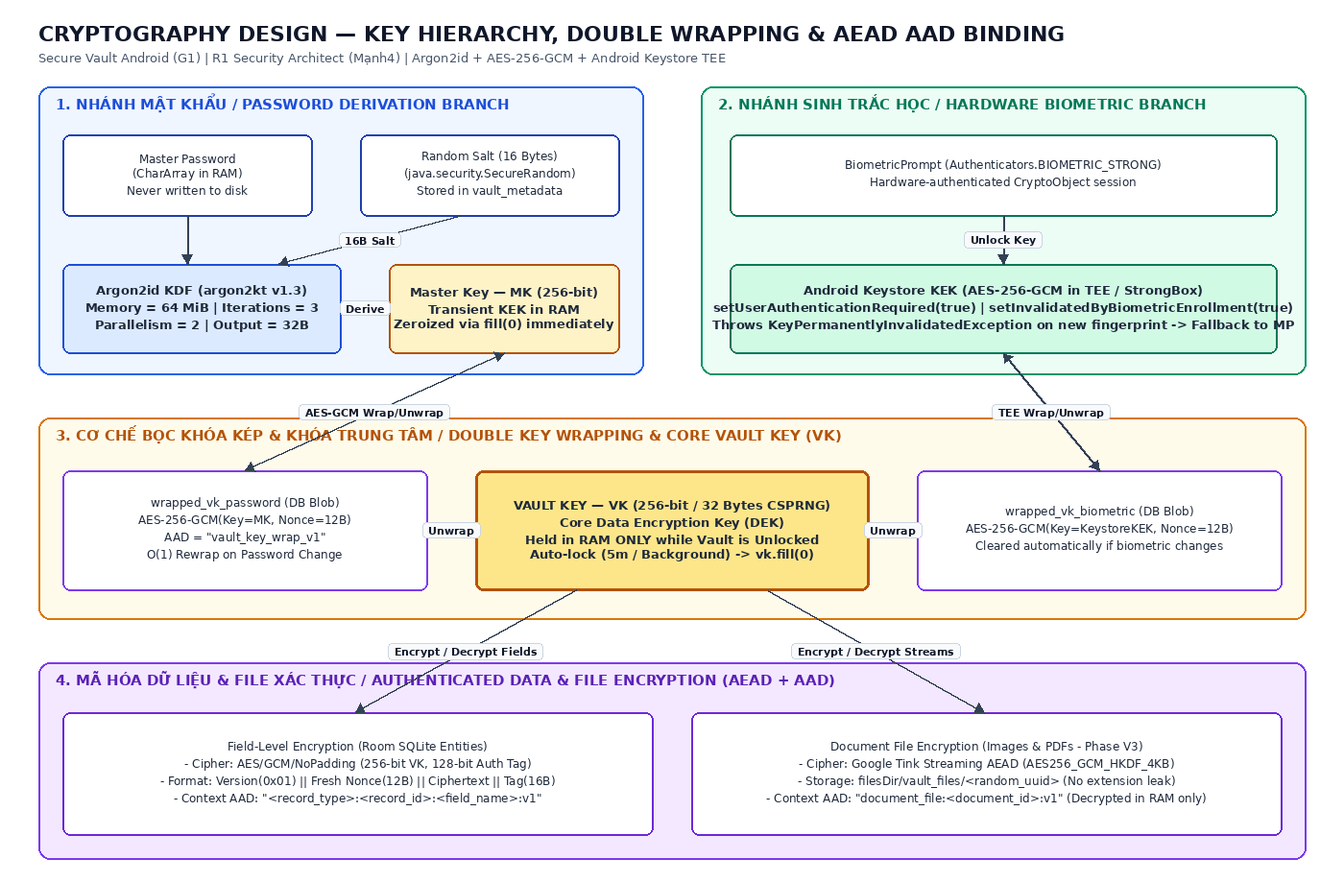
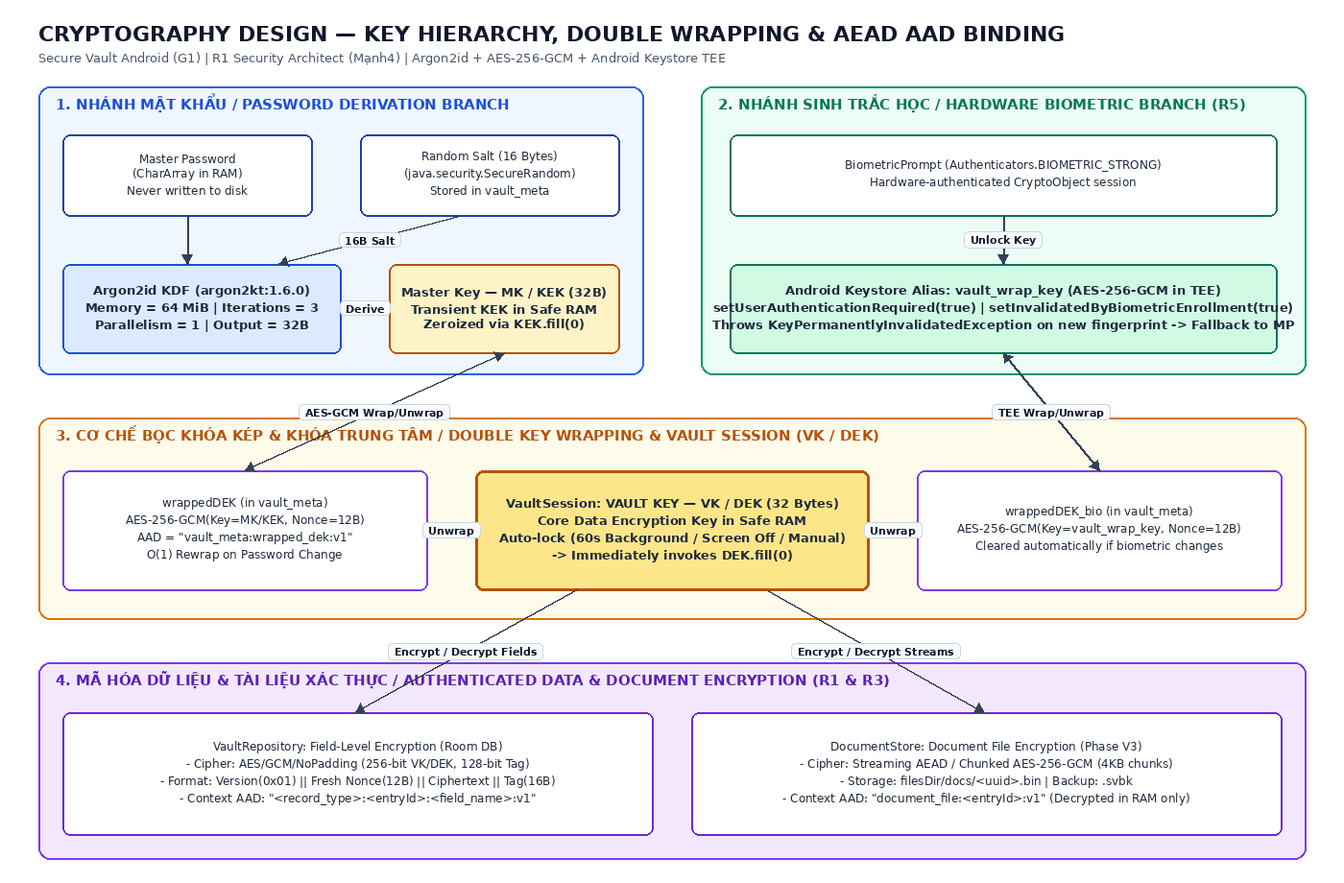
docs(crypto): synchronize terminology, argon2kt params, and R1-R5 tasks with Minh

diff --git a/docs/crypto-design.md b/docs/crypto-design.md
@@ -1,29 +1,28 @@
 # Thiết kế Mật mã / Cryptography Design — Secure Vault Android
 
 - **Dự án / Project:** Secure Vault Android
-- **Phụ trách chính / Lead Authors:** R1 – Mạnh4 (Security Architect) & R5 – Minh (Crypto & Keystore Engineer)
-- **Phiên bản / Version:** v0.1 (Bản nháp G1 — Chuẩn bị cho V2 Security Core / Phase G1 Draft for V2)
+- **Phụ trách chính / Lead Author:** R1 – Mạnh4 (Security Architect) *(Đồng bộ hóa với R5 – Minh: Crypto & Keystore Engineer)*
+- **Phiên bản / Version:** v0.1 (Bản chốt G1 — Chuẩn bị cho V2 Security Core / Phase G1 Finalized Draft for V2)
 - **Ngày cập nhật / Last Updated:** 01/11/2026
 
 ---
 
-## 1. Mục tiêu thiết kế / Design Goals
+## 1. Mục tiêu thiết kế & Phân vùng bảo mật / Design Goals & 3 Security Zones
 
-1. **Bảo mật dữ liệu nghỉ / Data-at-Rest Confidentiality & Integrity:**
-   - **VI:** Mọi thông tin nhạy cảm trong SQLite (Room) và file đính kèm (ảnh/PDF giấy tờ) đều được mã hóa xác thực (**AEAD**). Kẻ tấn công kéo toàn bộ thư mục `/data/data/...` qua `adb` không thể đọc hoặc sửa đổi trái phép dữ liệu.
-   - **EN:** All sensitive records in SQLite (Room) and attached files (ID images/PDFs) are protected using Authenticated Encryption with Associated Data (**AEAD**). An attacker extracting `/data/data/...` via `adb` cannot read or undetectedly modify any sensitive content.
+1. **Ba Phân vùng Bảo mật / Three Security Zones (`README.md` & R5 Alignment):**
+   - **Untrusted Zone (Vùng không đáng tin cậy):** Gồm dữ liệu đầu vào (`Master Password` dạng `CharArray`, tài liệu từ SAF `content://`, yêu cầu `FillRequest` của `AutofillService`) và dữ liệu lưu trữ trên đĩa (`vault_meta`, Room DB, `filesDir/docs/<uuid>.bin`, file backup `.svbk`).
+   - **In-Memory Safe Zone (Vùng an toàn trong bộ nhớ - RAM):** Nơi diễn ra dẫn xuất khóa `Argon2id` (`MK / KEK`), quản lý khóa phiên `VK / DEK` trong `VaultSession`, và thực thi mã hóa/giải mã tại `VaultRepository` & `DocumentStore`.
+   - **Hardware Security Zone (Vùng bảo mật phần cứng - TEE):** Android Keystore chứa khóa không thể trích xuất `vault_wrap_key` kết hợp xác thực phần cứng qua `BiometricPrompt` (`CryptoObject`).
 
-2. **Độc lập giữa khóa dữ liệu và mật khẩu người dùng / Decoupling Data Encryption Keys from User Credentials:**
-   - **VI:** Dữ liệu được mã hóa bằng **Vault Key (VK)** ngẫu nhiên thay vì mã hóa trực tiếp bằng khóa dẫn xuất từ mật khẩu. Nhờ đó:
-     - Có thể mở khóa cùng một `VK` bằng nhiều phương thức (**Master Password** hoặc **Sinh trắc học / Android Keystore**).
-     - Khi **đổi Master Password**, chỉ cần bọc lại (rewrap) `VK` trong thời gian $O(1)$ mà không phải giải mã và mã hóa lại toàn bộ cơ sở dữ liệu.
-   - **EN:** Application data is encrypted with a randomly generated **Vault Key (VK)** rather than directly with a password-derived key. Consequently:
-     - The same `VK` can be unlocked via multiple factors (**Master Password** or **Biometrics / Android Keystore**).
-     - **Master Password rotation** only requires re-wrapping `VK` in $O(1)$ time without re-encrypting the underlying database or files.
+2. **Phân tách khóa & Bọc khóa kép / Key Separation & Double Key Wrapping:**
+   - **Master Key (`MK` / `KEK` - 32 bytes):** Chỉ dùng để bọc/mở bọc `VK / DEK`, xóa trắng ngay lập tức sau khi dùng (`KEK.fill(0)`).
+   - **Vault Key (`VK` / `DEK` - 32 bytes):** Khóa đối xứng trung tâm mã hóa bản ghi Room DB và tài liệu. Được lưu trong bảng `vault_meta` dưới 2 bản bọc độc lập:
+     - `wrappedDEK`: Bọc bởi `MK / KEK` (`AES-256-GCM`).
+     - `wrappedDEK_bio`: Bọc bởi khóa phần cứng `vault_wrap_key` trong Android Keystore.
+   - Khi **đổi Master Password**, chỉ cần bọc lại (`Rewrap`) `VK / DEK` sang `wrappedDEK` mới trong thời gian $O(1)$ mà không cần giải mã lại toàn bộ DB.
 
-3. **Chống tấn công cắt dán & tráo đổi bản ghi / Anti-Tampering & Context Binding:**
-   - **VI:** Sử dụng **Associated Data (AAD)** gắn chặt bản mã với định danh bản ghi và tên trường dữ liệu.
-   - **EN:** Enforces cryptographic context binding via **Associated Data (AAD)** tying every ciphertext blob to its exact record type, record UUID, and field name.
+3. **Chống tấn công cắt dán & tráo đổi bản ghi / Anti-Tampering & Context Binding (AAD):**
+   - Gắn ngữ cảnh **Associated Data (AAD)** chứa `entryId` và tên trường vào mọi thao tác `AES-256-GCM`.
 
 ---
 
@@ -33,39 +32,39 @@
 
 ```mermaid
 flowchart TD
-    subgraph UserInput["1. Nhánh Mật khẩu / Password Unlock Branch"]
-        MP["Master Password (CharArray / ByteArray)"]
-        Salt["Random Salt (16 bytes - SecureRandom)"]
-        Argon["Argon2id KDF (argon2kt)"]
-        MK["Master Key - MK (256-bit, RAM only)"]
+    subgraph UserInput["1. Nhánh Mật khẩu / Password Unlock Branch (R5 & R1)"]
+        MP["Master Password (CharArray)"]
+        Salt["Random Salt (16 bytes - SecureRandom in vault_meta)"]
+        Argon["Argon2id KDF (argon2kt:1.6.0: m=64MiB, t=3, p=1)"]
+        MK["Master Key - MK / KEK (32B, RAM only -> KEK.fill(0))"]
 
         MP --> Argon
         Salt --> Argon
         Argon -->|"Dẫn xuất khóa / Derive Key"| MK
     end
 
-    subgraph HardwareBio["2. Nhánh Sinh trắc học / Biometric Unlock Branch"]
-        BioPrompt["BiometricPrompt (BIOMETRIC_STRONG)"]
-        KeystoreKEK["Biometric Key - KEK (AES-256-GCM in Android Keystore / TEE)"]
+    subgraph HardwareBio["2. Nhánh Sinh trắc học / Biometric Unlock Branch (R5)"]
+        BioPrompt["BiometricPrompt (BIOMETRIC_STRONG + CryptoObject)"]
+        KeystoreKEK["Android Keystore Alias: vault_wrap_key (AES-256-GCM in TEE)"]
         BioPrompt -->|"Xác thực phần cứng / Hardware Auth"| KeystoreKEK
     end
 
-    subgraph KeyWrapping["3. Bọc & Bảo vệ Vault Key / Wrapped VK Storage (vault_metadata table)"]
-        WrappedPW["wrapped_vk_password + nonce_pw (12B) + tag (16B)"]
-        WrappedBio["wrapped_vk_biometric + nonce_bio (12B) + tag (16B)"]
+    subgraph KeyWrapping["3. Bọc & Bảo vệ Vault Key / Double Key Wrapping (vault_meta table)"]
+        WrappedPW["wrappedDEK + nonce_pw (12B) + tag (16B)"]
+        WrappedBio["wrappedDEK_bio + nonce_bio (12B) + tag (16B)"]
         MK <-->|"AES-256-GCM Wrap / Unwrap"| WrappedPW
         KeystoreKEK <-->|"Keystore AES-GCM Wrap / Unwrap"| WrappedBio
     end
 
-    subgraph CoreKey["4. Khóa trung tâm / Core Session Key (RAM Only While Unlocked)"]
-        VK["Vault Key - VK (256-bit CSPRNG)"]
+    subgraph CoreKey["4. Khóa trung tâm / VaultSession (In-Memory Safe Zone)"]
+        VK["Vault Key - VK / DEK (32B CSPRNG -> DEK.fill(0) on Lock)"]
         WrappedPW -->|"Unwrap thành công / Unwrap Success"| VK
         WrappedBio -->|"Unwrap thành công / Unwrap Success"| VK
     end
 
-    subgraph DataEncryption["5. Mã hóa Dữ liệu & Tệp / Record & File Encryption"]
-        CredFields["Trường nhạy cảm trong Room / Sensitive DB Fields<br/>AES-256-GCM + Nonce 12B + AAD (type:id:field:v1)"]
-        DocFiles["File Ảnh & PDF Giấy tờ / Document Files (V3)<br/>Tink Streaming AEAD / Per-file FEK + AAD"]
+    subgraph DataEncryption["5. Mã hóa Dữ liệu & Tài liệu / Record & Document Encryption (R1 & R3)"]
+        CredFields["VaultRepository (Room DB Fields)<br/>AES-256-GCM + Nonce 12B + AAD (type:entryId:field:v1)"]
+        DocFiles["DocumentStore (filesDir/docs/<uuid>.bin)<br/>Streaming AEAD (4KB chunks) + AAD"]
         VK -->|"Mã hóa & Giải mã / Encrypt & Decrypt"| CredFields
         VK -->|"Mã hóa & Giải mã / Encrypt & Decrypt"| DocFiles
     end
@@ -73,137 +72,122 @@ flowchart TD
 
 ---
 
-## 3. Chi tiết các thành phần mật mã / Cryptographic Components Specification
+## 3. Phân công & Đồng bộ hóa Nhiệm vụ Mật mã (R1 $\leftrightarrow$ R5) / Task Synchronization (R1 & R5)
 
-### 3.1. Dẫn xuất khóa bằng Argon2id / Key Derivation via Argon2id (`Master Password` $\rightarrow$ `Master Key`)
-- **Thư viện sử dụng / Library:**
-  - **VI:** `argon2kt` (được R5 khảo sát phiên bản stable và API thực tế trong giai đoạn G1).
-  - **EN:** `argon2kt` (stable version and exact artifact coordinates verified by R5 during Phase G1).
-- **Biến thể / Variant:**
-  - **VI:** `Argon2id` (phiên bản `0x13` / v1.3) — kết hợp khả năng kháng tấn công kênh kề (side-channel) của Argon2i và kháng phần cứng chuyên dụng (GPU/ASIC) của Argon2d.
-  - **EN:** `Argon2id` (version `0x13` / v1.3) — combining the side-channel resistance of Argon2i with the GPU/ASIC cracking resistance of Argon2d.
-- **Tham số đề xuất ban đầu / Initial Proposed Parameters:**
-  - **VI:** *Sẽ đo thực tế trên thiết bị thật ở mục 5.2 giai đoạn V2 để thời gian mở khóa đạt khoảng `300ms – 500ms` mà không gây giật UI:*
-  - **EN:** *To be benchmarked on physical target devices in Phase V2 (Task 5.2) targeting a `300ms – 500ms` derivation latency off the main thread:*
-    - `salt`: **16 bytes (128-bit)** generated via `java.security.SecureRandom`.
-    - `hashLength` (`MK` output size): **32 bytes (256-bit)**.
-    - `memoryCost`: **65536 KiB (64 MB)** *(or tuned to 32768 KiB on lower-tier devices)*.
-    - `iterations` (`t_cost`): **3 passes**.
-    - `parallelism` (`p`): **2 lanes**.
-- **Lưu trữ tham số / Parameter Persistence:**
-  - **VI:** Các tham số `argon2_memory`, `argon2_iterations`, `argon2_parallelism` và `salt` được lưu kèm trong bảng `vault_metadata` để hỗ trợ nâng cấp tham số về sau.
-  - **EN:** `argon2_memory`, `argon2_iterations`, `argon2_parallelism`, and `salt` are stored alongside the wrapped key in `vault_metadata` to support future parameter upgrades.
+| Hạng mục / Component | Phụ trách chính / Owner | Phối hợp & Duyệt / Reviewer | Đầu ra kỹ thuật thống nhất / Unified Technical Deliverable |
+| :--- | :---: | :---: | :--- |
+| **Argon2id KDF & Benchmark** | **R5 (Minh)** | **R1 (Mạnh4)** duyệt PR | Thư viện `com.lambdapioneer.argon2kt:argon2kt:1.6.0`, tham số RFC 9106 (`m=64MiB, t=3, p=1`), đo thời gian thực tế đạt `200ms - 500ms`. |
+| **Double Key Wrapping (`wrappedDEK`, `wrappedDEK_bio`)** | **R5 (Minh)** & **R1 (Mạnh4)** | **R1 (Mạnh4)** duyệt PR | Bọc/mở bọc `VK / DEK` (32B) bằng `MK / KEK` và `vault_wrap_key`; lưu trong bảng `vault_meta`. |
+| **Android Keystore & `BiometricPrompt`** | **R5 (Minh)** | **R1 (Mạnh4)** duyệt PR | Alias `vault_wrap_key`, `setUserAuthenticationRequired(true)`, `setInvalidatedByBiometricEnrollment(true)`, xử lý `KeyPermanentlyInvalidatedException`. |
+| **Lõi `AES-256-GCM` + `AAD` & `VaultSession`** | **R1 (Mạnh4)** | **R5 (Minh)** & **R6 (Mạnh3)** test | Mã hóa trường dữ liệu trong `VaultRepository`, sinh Nonce 12B mới mỗi lần ghi, gắn `AAD` chứa `entryId`, xóa `DEK.fill(0)` khi khóa. |
+| **Đổi Master Password (`Rewrap DEK`) & Lockout** | **R1 (Mạnh4)** & **R2 (Nam)** | **R6 (Mạnh3)** test | Đổi mật khẩu $O(1)$ không giải mã lại DB; lưu `failed_attempts` và `lockout_until` trong `vault_meta`. |
 
-### 3.2. Sinh và Bọc Vault Key / Vault Key (VK) Generation & Wrapping
+---
+
+## 4. Chi tiết các thành phần mật mã / Cryptographic Components Specification
+
+### 4.1. Dẫn xuất khóa bằng Argon2id / Key Derivation via Argon2id (`Master Password` $\rightarrow$ `MK / KEK`)
+- **Thư viện thống nhất với R5 / Unified Library Coordinate:**
+  ```kotlin
+  implementation("com.lambdapioneer.argon2kt:argon2kt:1.6.0")
+  ```
+- **API thực thi / Target API:**
+  - Class: `com.lambdapioneer.argon2kt.Argon2Kt`
+  - Mode: `Argon2Mode.ARGON2_ID` (v1.3 / RFC 9106)
+  - Method: `argon2Kt.hash(mode, password, salt, tCostInIterations, mCostInKibibyte)`
+- **Tham số đề xuất ban đầu / Initial Parameters (RFC 9106):**
+  - `mCostInKibibyte` (`m`): **65536 KiB (64 MiB)** — Memory-hard chống GPU/ASIC.
+  - `tCostInIterations` (`t`): **3 vòng lặp / 3 passes**.
+  - `parallelism` (`p`): **1 luồng / 1 lane** — Tối ưu cho CPU di động, tránh gây lag UI.
+  - `hashLength`: **32 bytes (256-bit)** — Kích thước của `MK / KEK`.
+  - `salt`: **16 bytes (128-bit)** — Sinh từ `java.security.SecureRandom`, lưu trong bảng `vault_meta`.
+  - *Lưu ý V2:* Đo benchmark thực tế trên máy thật ở mục `5.2` để đảm bảo thời gian mở khóa nằm trong ngưỡng **`200ms – 500ms`**.
+
+### 4.2. Sinh, Bọc khóa kép và Quản lý phiên (`VaultSession`) / VK Generation, Double Wrapping & Session Management
 - **Khởi tạo Vault lần đầu / Initial Vault Setup:**
-  1. **VI:** Sinh `Vault Key (VK)` độ dài **32 bytes (256-bit)** bằng `SecureRandom`.
-     **EN:** Generate a **32-byte (256-bit)** `Vault Key (VK)` using `SecureRandom`.
-  2. **VI:** Sinh `salt` (16 bytes), chạy `Argon2id(MasterPassword, salt)` để thu được `Master Key (MK)` (32 bytes).
-     **EN:** Generate a 16-byte `salt` and run `Argon2id(MasterPassword, salt)` to derive the 32-byte `Master Key (MK)`.
-  3. **VI:** Dùng `MK` mã hóa `VK` bằng thuật toán `AES-256-GCM` với `nonce_pw` (12 bytes ngẫu nhiên) và `AAD = "vault_key_wrap_v1"`.
-     **EN:** Encrypt `VK` under `MK` using `AES-256-GCM` with a random 12-byte `nonce_pw` and `AAD = "vault_key_wrap_v1"`.
-  4. **VI:** Lưu `wrapped_vk_password`, `nonce_pw`, `salt` và các tham số Argon2id vào bảng `vault_metadata`.
-     **EN:** Persist `wrapped_vk_password`, `nonce_pw`, `salt`, and Argon2id parameters into the `vault_metadata` table.
-  5. **VI:** Xóa trắng (`fill(0)`) mảng byte của `MasterPassword` và `MK` trong RAM.
-     **EN:** Zeroize (`fill(0)`) the `MasterPassword` and `MK` buffers in RAM immediately.
+  1. **VI:** Sinh `Vault Key (VK / DEK)` độ dài **32 bytes (256-bit)** bằng `SecureRandom`.
+     **EN:** Generate a **32-byte (256-bit)** `Vault Key (VK / DEK)` using `SecureRandom`.
+  2. **VI:** Sinh `salt` (16 bytes), chạy `Argon2id` để dẫn xuất `MK / KEK` (32 bytes) từ `Master Password` (`CharArray`).
+     **EN:** Generate a 16-byte `salt` and run `Argon2id` to derive the 32-byte `MK / KEK` from the `Master Password` (`CharArray`).
+  3. **VI:** Dùng `MK / KEK` bọc `VK / DEK` qua `AES-256-GCM` với `nonce_pw` (12 bytes) và `AAD = "vault_meta:wrapped_dek:v1"` $\rightarrow$ tạo thành `wrappedDEK`.
+     **EN:** Wrap `VK / DEK` under `MK / KEK` using `AES-256-GCM` with a 12-byte `nonce_pw` and `AAD = "vault_meta:wrapped_dek:v1"` $\rightarrow$ producing `wrappedDEK`.
+  4. **VI:** Lưu `wrappedDEK`, `salt` và tham số KDF vào bảng `vault_meta`, sau đó gọi `KEK.fill(0)` và xóa trắng `CharArray` mật khẩu.
+     **EN:** Persist `wrappedDEK`, `salt`, and KDF parameters in `vault_meta`, then immediately invoke `KEK.fill(0)` and clear the password `CharArray`.
 
-- **Mở khóa bằng Master Password / Unlocking with Master Password:**
-  1. **VI:** Kiểm tra `lockout_until` trong `vault_metadata`. Nếu đang bị khóa tạm thời, từ chối ngay.
-     **EN:** Check `lockout_until` in `vault_metadata`. If currently locked out, reject immediately.
-  2. **VI:** Đọc `salt` và tham số Argon2id từ DB, dẫn xuất lại `MK`.
-     **EN:** Read `salt` and Argon2id parameters from the DB and re-derive `MK`.
-  3. **VI:** Giải mã `wrapped_vk_password` với `AAD = "vault_key_wrap_v1"`.
-     **EN:** Decrypt `wrapped_vk_password` using `MK` and `AAD = "vault_key_wrap_v1"`.
-  4. **VI:** Nếu giải mã thành công: nạp `VK` vào bộ nhớ phiên (RAM), đặt lại `failed_attempts = 0`.
-     **EN:** On success: load `VK` into active session memory (RAM) and reset `failed_attempts = 0`.
-  5. **VI:** Nếu ném `AEADBadTagException` (sai mật khẩu hoặc dữ liệu bị sửa): tăng `failed_attempts`, tính thời gian lockout lũy tiến và cập nhật vào DB.
-     **EN:** On `AEADBadTagException` (wrong password or tampered blob): increment `failed_attempts`, compute the progressive lockout timestamp, and persist to DB.
+- **Quản lý phiên `VaultSession` & Tự động khóa / `VaultSession` & Auto-Lock Lifecycle:**
+  - **VI:** `VaultSession` giữ `VK / DEK` trong `In-Memory Safe Zone` khi kho đang mở. Kho sẽ lập tức chuyển sang trạng thái khóa và gọi `DEK.fill(0)` khi:
+    1. Người dùng chủ động bấm khóa Vault.
+    2. Màn hình thiết bị tắt (Screen off).
+    3. Ứng dụng chạy dưới nền quá thời gian quy định (60 giây theo `README.md` / cấu hình tối đa 5 phút không thao tác ở V4).
+  - **EN:** `VaultSession` holds `VK / DEK` in the `In-Memory Safe Zone` while unlocked. It immediately transitions to locked state and invokes `DEK.fill(0)` when:
+    1. The user manually locks the Vault.
+    2. The device screen turns off.
+    3. The app remains in the background beyond the timeout threshold (60s in `README.md` / up to 5m inactivity in V4).
 
-### 3.3. Nhánh Android Keystore & BiometricPrompt / Android Keystore & Biometric Unlock Branch
+### 4.3. Nhánh Android Keystore & BiometricPrompt / Android Keystore & Biometric Unlock Branch
 - **Cấu hình khóa trong `AndroidKeyStore` / `KeyGenParameterSpec` Configuration:**
-  - `keystoreAlias`: `"secure_vault_biometric_kek"`
-  - `Algorithm`: `KeyProperties.KEY_ALGORITHM_AES`, **256-bit**.
-  - `BlockMode / Padding`: `BLOCK_MODE_GCM`, `ENCRYPTION_PADDING_NONE`.
-  - **VI:** Bắt buộc xác thực sinh trắc học mạnh cho mỗi lần sử dụng khóa:
-    **EN:** Require strong biometric authentication for every cryptographic operation:
+  - `keystoreAlias`: **`"vault_wrap_key"`** (đồng bộ với `README.md` và nhánh R5).
+  - `Algorithm`: `KeyProperties.KEY_ALGORITHM_AES`, **256-bit**, `BLOCK_MODE_GCM`, `ENCRYPTION_PADDING_NONE`.
+  - **VI:** Bắt buộc xác thực sinh trắc học mạnh cho mỗi lần sử dụng (`CryptoObject`):
+    **EN:** Require strong biometric authentication per operation via `BiometricPrompt.CryptoObject`:
     - `setUserAuthenticationRequired(true)`
-    - `BiometricPrompt.PromptInfo` configured with `Authenticators.BIOMETRIC_STRONG`.
-  - **VI:** Vô hiệu hóa khóa khi thay đổi dữ liệu sinh trắc học trên máy:
-    **EN:** Invalidate key material upon new biometric enrollment:
     - `setInvalidatedByBiometricEnrollment(true)`
 - **Xử lý khi đổi vân tay / Handling `KeyPermanentlyInvalidatedException`:**
-  - **VI:** Khi người dùng thêm vân tay mới vào hệ điều hành, khóa trong Keystore bị vô hiệu hóa vĩnh viễn. Ứng dụng bắt ngoại lệ `KeyPermanentlyInvalidatedException`, xóa `wrapped_vk_biometric` trong DB, xóa khóa cũ trong Keystore và yêu cầu người dùng đăng nhập lại bằng **Master Password** trước khi bật lại sinh trắc học.
-  - **EN:** When a new fingerprint is enrolled at the OS level, the Keystore key is permanently invalidated. The app catches `KeyPermanentlyInvalidatedException`, deletes `wrapped_vk_biometric` from the DB, removes the invalidated Keystore alias, and requires the user to authenticate with their **Master Password** before re-enabling biometric unlock.
+  - **VI:** Khi có vân tay mới đăng ký trên thiết bị, khóa `vault_wrap_key` bị vô hiệu hóa vĩnh viễn và ném `KeyPermanentlyInvalidatedException`. Ứng dụng bắt ngoại lệ này, xóa `wrappedDEK_bio` trong `vault_meta`, xóa khóa `vault_wrap_key` trong Keystore và yêu cầu người dùng mở khóa bằng **Master Password** trước khi thiết lập lại vân tay.
+  - **EN:** When a new fingerprint is enrolled on the device, `vault_wrap_key` is permanently invalidated and throws `KeyPermanentlyInvalidatedException`. The app catches this exception, removes `wrappedDEK_bio` from `vault_meta`, deletes the Keystore alias, and requires **Master Password** authentication before re-enrolling biometrics.
 
-### 3.4. Quy trình Đổi Master Password / Master Password Rotation (Rewrap VK)
-1. **VI:** Người dùng nhập **Mật khẩu hiện tại** $\rightarrow$ dẫn xuất `MK_old` $\rightarrow$ mở bọc để lấy `VK` (xác minh mật khẩu cũ đúng).
-   **EN:** User enters **Current Password** $\rightarrow$ derive `MK_old` $\rightarrow$ unwrap `VK` (verifying current password authenticity).
-2. **VI:** Sinh `salt_new` (16 bytes mới) $\rightarrow$ dẫn xuất `MK_new` từ **Mật khẩu mới** qua Argon2id.
-   **EN:** Generate a fresh 16-byte `salt_new` $\rightarrow$ derive `MK_new` from the **New Password** via Argon2id.
-3. **VI:** Sinh `nonce_pw_new` (12 bytes mới) $\rightarrow$ dùng `MK_new` bọc lại `VK` thành `wrapped_vk_password_new`.
-   **EN:** Generate a fresh 12-byte `nonce_pw_new` $\rightarrow$ wrap `VK` under `MK_new` to produce `wrapped_vk_password_new`.
-4. **VI:** Cập nhật `salt_new`, `nonce_pw_new`, `wrapped_vk_password_new` vào bảng `vault_metadata` trong một transaction.
-   **EN:** Atomically update `salt_new`, `nonce_pw_new`, and `wrapped_vk_password_new` in `vault_metadata` within a single DB transaction.
-5. **VI:** Xóa trắng (`fill(0)`) toàn bộ `MK_old`, `MK_new`, mật khẩu cũ và mới trong RAM.
-   **EN:** Zeroize (`fill(0)`) `MK_old`, `MK_new`, and both old and new password buffers in RAM.
+### 4.4. Quy trình Đổi Master Password (`Rewrap DEK`) / $O(1)$ Master Password Rotation
+1. **VI:** Nhập **Mật khẩu hiện tại** $\rightarrow$ dẫn xuất `KEK_old` $\rightarrow$ giải bọc `wrappedDEK` để lấy `VK / DEK`.
+   **EN:** Enter **Current Password** $\rightarrow$ derive `KEK_old` $\rightarrow$ unwrap `wrappedDEK` to recover `VK / DEK`.
+2. **VI:** Sinh `salt_new` (16 bytes) $\rightarrow$ dẫn xuất `KEK_new` từ **Mật khẩu mới** qua `Argon2id`.
+   **EN:** Generate a fresh 16-byte `salt_new` $\rightarrow$ derive `KEK_new` from the **New Password** via `Argon2id`.
+3. **VI:** Sinh `nonce_new` (12 bytes) $\rightarrow$ dùng `KEK_new` bọc lại `VK / DEK` thành `wrappedDEK` mới và cập nhật vào bảng `vault_meta` trong 1 transaction.
+   **EN:** Generate a fresh 12-byte `nonce_new` $\rightarrow$ re-wrap `VK / DEK` under `KEK_new` and atomically update `vault_meta`.
+4. **VI:** Gọi `KEK_old.fill(0)`, `KEK_new.fill(0)` và xóa trắng các mảng `CharArray` mật khẩu.
+   **EN:** Zeroize `KEK_old.fill(0)`, `KEK_new.fill(0)`, and all password `CharArray` buffers.
 
 ---
 
-## 4. Mã hóa Bản ghi & Associated Data / Field-level Encryption & Associated Data (AAD)
+## 5. Mã hóa Bản ghi (`VaultRepository`) & Tài liệu (`DocumentStore`) / Record & Document Encryption
 
-### 4.1. Thuật toán & Quản lý Nonce / Cipher Suite & Nonce Management
-- **Thuật toán / Algorithm:** `AES/GCM/NoPadding`, 256-bit key (`VK`), **128-bit (16-byte)** Authentication Tag.
-- **Quy tắc Nonce (IV) / Nonce (IV) Rules:**
-  - **VI:** Độ dài chuẩn GCM là **12 bytes (96-bit)**. Mỗi lần mã hóa một trường (khi tạo mới **hoặc** khi cập nhật), bắt buộc gọi `SecureRandom.nextBytes(12)` để sinh Nonce hoàn toàn mới. **Tuyệt đối không tái sử dụng Nonce** với cùng một `VK`.
-  - **EN:** Standard GCM nonce length is **12 bytes (96-bit)**. Every field encryption operation (on insert **or** update) must generate a fresh 12-byte nonce via `SecureRandom.nextBytes(12)`. **Never reuse a `(VK, Nonce)` pair.**
-- **Định dạng lưu trữ trường mã hóa / Encrypted Field Wire Format:**
-  $$\text{EncryptedBlob} = \text{Version (1 byte: 0x01)} \parallel \text{Nonce (12 bytes)} \parallel \text{Ciphertext} \parallel \text{GCM Tag (16 bytes)}$$
+### 5.1. Thuật toán, Quản lý Nonce & Định dạng Blob / Cipher Suite, Nonce Rules & Blob Format
+- **Thuật toán / Algorithm:** `AES/GCM/NoPadding`, khóa `VK / DEK` (256-bit), Authentication Tag **128-bit (16 bytes)**.
+- **Quy tắc Nonce (IV) / Nonce Rules:**
+  - **VI:** Mỗi lần mã hóa một trường hoặc một khối (chunk) tài liệu bắt buộc sinh mới **12 bytes (96-bit) Nonce** từ `SecureRandom`. **Tuyệt đối không tái sử dụng `(DEK, Nonce)`**.
+  - **EN:** Every field or chunk encryption operation must generate a fresh **12-byte (96-bit) Nonce** via `SecureRandom`. **Never reuse a `(DEK, Nonce)` pair.**
+- **Định dạng lưu trữ / Encrypted Blob Wire Format:**
+  $$\text{Blob} = \text{Version (1B: 0x01)} \parallel \text{Nonce (12B)} \parallel \text{Ciphertext} \parallel \text{GCM Tag (16B)}$$
 
-### 4.2. Cấu trúc Associated Data / Associated Data (AAD) Format
-- **VI:** Để ngăn chặn kẻ tấn công có quyền truy cập file SQLite tráo đổi bản mã giữa các dòng hoặc các cột, mọi thao tác mã hóa/giải mã trường đều gắn **AAD** được mã hóa UTF-8:
-- **EN:** To prevent an attacker with SQLite file access from swapping ciphertexts across rows or columns (cut-and-paste attacks), every field encryption/decryption binds UTF-8 encoded **AAD**:
+### 5.2. Cấu trúc Associated Data (AAD) gắn `entryId` / Context-Bound AAD Format
+- **VI:** Đồng bộ với `README.md` (sử dụng `entryId` làm AAD chống tráo đổi bản mã giữa các dòng/cột trong Room DB):
+- **EN:** Aligned with `README.md` (binding `entryId` into AAD to prevent ciphertext swapping across SQLite rows/columns):
 
 ```text
-AAD = "<record_type>:<record_id>:<field_name>:v1"
+AAD = "<record_type>:<entryId>:<field_name>:v1"
 ```
 
-- **Ví dụ thực tế / Concrete Examples:**
-  - Credential Password (`record_id = 550e8400-e29b-41d4-a716-446655440000`):
-    `AAD = "credential:550e8400-e29b-41d4-a716-446655440000:password:v1"`
-  - Identity Document Number (`record_id = 7c9e6679-7425-40de-944b-e07fc1f90ae7`):
-    `AAD = "document:7c9e6679-7425-40de-944b-e07fc1f90ae7:doc_number:v1"`
-- **VI:** Khi giải mã, nếu bản mã bị di chuyển sang dòng khác hoặc cột khác, `AAD` tái tạo sẽ không khớp và phép kiểm tra GCM Tag sẽ thất bại ngay lập tức (`AEADBadTagException`).
-- **EN:** During decryption, if a ciphertext blob was moved to another row or column, the reconstructed `AAD` will mismatch and GCM tag verification will immediately fail (`AEADBadTagException`).
+- **Ví dụ / Examples:**
+  - Credential Password: `AAD = "credential:550e8400-e29b-41d4-a716-446655440000:password:v1"`
+  - Identity Document Number: `AAD = "document:7c9e6679-7425-40de-944b-e07fc1f90ae7:doc_number:v1"`
+  - Document Binary File (`filesDir/docs/<uuid>.bin`): `AAD = "document_file:<entryId>:v1"`
+
+### 5.3. Mã hóa Tài liệu trong `DocumentStore` (Phase V3) & Bản sao lưu `.svbk`
+- **VI:** Tài liệu nhạy cảm (ảnh CCCD, hộ chiếu, PDF) nhập qua SAF (`content://`) được xử lý theo luồng (Streaming AEAD / Chunked AES-GCM) và lưu tại `filesDir/docs/<uuid>.bin`. Khi xem chỉ giải mã trên RAM, không tạo file tạm chưa mã hóa trên đĩa.
+- **EN:** Sensitive documents (ID scans, passports, PDFs) ingested via SAF (`content://`) are encrypted via Streaming AEAD / Chunked AES-GCM into `filesDir/docs/<uuid>.bin`. Viewing decrypts streams strictly in RAM without creating plaintext temp files on disk.
 
 ---
 
-## 5. Mã hóa File Ảnh & PDF Giấy tờ / Document Image & PDF File Encryption (Phase V3)
+## 6. Xử lý lỗi, Vệ sinh bộ nhớ & Chống Brute-force / Error Handling, Memory Hygiene & Lockout
 
-1. **Mã hóa theo luồng / Streaming AEAD Encryption:**
-   - **VI:** Không dùng AES-GCM một khối duy nhất cho file lớn để tránh tràn RAM (`OutOfMemoryError`). Sử dụng **Google Tink Streaming AEAD** (`AES256_GCM_HKDF_4KB`) với khóa dẫn xuất hoặc Per-file Key được bọc bởi `VK`, gắn `AAD = "document_file:<document_id>:v1"`.
-   - **EN:** Avoid single-shot AES-GCM on large files to prevent `OutOfMemoryError`. Use **Google Tink Streaming AEAD** (`AES256_GCM_HKDF_4KB`) with a subkey or per-file Data Encryption Key wrapped by `VK`, bound to `AAD = "document_file:<document_id>:v1"`.
-2. **Ẩn danh tên file / Filename Anonymization:**
-   - **VI:** File mã hóa lưu trong `context.filesDir/vault_files/` với **tên file là UUID ngẫu nhiên** (không giữ tên gốc hay đuôi `.jpg`/`.pdf`). Tên gốc và MIME type được mã hóa trong Room DB.
-   - **EN:** Encrypted files are stored under `context.filesDir/vault_files/` using **random UUID filenames** (stripping original filenames and `.jpg`/`.pdf` extensions). Original filenames and MIME types are encrypted inside Room DB.
-3. **Giải mã chỉ trong RAM / In-Memory Decryption Only:**
-   - **VI:** Khi người dùng mở xem ảnh/PDF, luồng giải mã chỉ đọc ra `ByteArray` / `Bitmap` trong RAM, tuyệt đối không ghi file tạm chưa mã hóa xuống đĩa.
-   - **EN:** When viewing an image or PDF, the decrypted stream is held strictly in RAM (`ByteArray` / `Bitmap`) and never written to temporary plaintext files on disk.
-
----
-
-## 6. Xử lý lỗi & Vệ sinh bộ nhớ / Error Handling & Memory Hygiene
-
-1. **Vệ sinh bộ nhớ khả biến / RAM Zeroization:**
-   - **VI:** Không truyền Master Password dưới dạng `kotlin.String` ở tầng Crypto (do `String` trên JVM là bất biến). Sử dụng `CharArray` cho mật khẩu và `ByteArray` cho `MK`, `VK`, dữ liệu giải mã. Luôn dùng `try { ... } finally { array.fill(0) }` để xóa trắng sau khi dùng và khi **Auto-lock**.
-   - **EN:** Never pass the Master Password as an immutable `kotlin.String` inside the Crypto layer. Use `CharArray` for passwords and `ByteArray` for `MK`, `VK`, and plaintext buffers. Always wrap operations in `try { ... } finally { array.fill(0) }` and zeroize `VK` upon **Auto-lock**.
+1. **Vệ sinh bộ nhớ khả biến / RAM Zeroization (`fill(0)`):**
+   - **VI:** Luôn xóa `CharArray` mật khẩu, `KEK.fill(0)` ngay sau khi mở khóa, và `DEK.fill(0)` khi khóa `VaultSession`. Ghi nhận rõ giới hạn của JVM/ART Garbage Collector trong báo cáo bảo mật.
+   - **EN:** Always zeroize password `CharArray` buffers, invoke `KEK.fill(0)` immediately after key unwrapping, and invoke `DEK.fill(0)` when locking `VaultSession`, while documenting JVM/ART GC limitations.
 2. **Xử lý ngoại lệ mật mã an toàn / Safe Crypto Exception Handling:**
-   - **VI:** Mọi lỗi giải mã (`AEADBadTagException`, `GeneralSecurityException`, file hỏng) được bắt tại tầng `security/` và trả về kết quả định danh (`CryptoResult.AuthFailed`, `CryptoResult.TamperedOrCorrupted`). **Tuyệt đối không ghi log** khóa, mật khẩu, plaintext hoặc chi tiết exception ra `Logcat`.
-   - **EN:** All cryptographic exceptions (`AEADBadTagException`, `GeneralSecurityException`, truncated files) are caught inside the `security/` layer and mapped to domain-safe sealed results (`CryptoResult.AuthFailed`, `CryptoResult.TamperedOrCorrupted`). **Never log** keys, passwords, plaintext, or raw cipher stack traces to `Logcat`.
-3. **Chống Brute-force / Lockout & Progressive Delay Policy:**
-   - **VI:** Lưu `failed_attempts` và `lockout_until` trong bảng `vault_metadata`:
-   - **EN:** Persist `failed_attempts` and `lockout_until` in the `vault_metadata` table:
-     - Attempts 1–4: Allow immediate retry (Cho phép thử lại ngay).
-     - Attempt 5: Lockout for **30 seconds** (Khóa 30 giây).
-     - Attempt 6: Lockout for **1 minute** (Khóa 1 phút).
-     - Attempt 7: Lockout for **5 minutes** (Khóa 5 phút).
-     - Attempt 8+: Lockout for **15 minutes** (Khóa 15 phút).
+   - **VI:** Mọi lỗi xác thực thẻ GCM (`AEADBadTagException`), mật khẩu sai, hoặc file `.bin`/`.svbk` bị sửa đổi đều được bắt tại tầng `security/` và trả về lỗi định danh chung; tuyệt đối không ghi khóa hay dữ liệu nhạy cảm ra `Logcat`.
+   - **EN:** All GCM tag verification failures (`AEADBadTagException`), wrong passwords, or tampered `.bin`/`.svbk` files are caught in the `security/` layer and mapped to generic domain errors; never log sensitive data to `Logcat`.
+3. **Chính sách Lockout & Delay lũy tiến trong `vault_meta` / Persistent Lockout Policy:**
+   - Attempts 1–4: Allow immediate retry (Cho phép thử lại ngay).
+   - Attempt 5: Lockout for **30 seconds** (Khóa 30 giây).
+   - Attempt 6: Lockout for **1 minute** (Khóa 1 phút).
+   - Attempt 7: Lockout for **5 minutes** (Khóa 5 phút).
+   - Attempt 8+: Lockout for **15 minutes** (Khóa 15 phút).

diff --git a/docs/threat-model.md b/docs/threat-model.md
@@ -64,12 +64,12 @@ flowchart TB
 | Mã / ID | Tài sản / Asset | Mô tả chi tiết / Detailed Description (VI / EN) | Mức độ / Criticality | Vị trí tồn tại / Location (VI / EN) |
 | :--- | :--- | :--- | :---: | :--- |
 | **A-01** | **Master Password**<br>*(Mật khẩu chính)* | **VI:** Mật khẩu gốc của người dùng, không bao giờ được lưu xuống đĩa.<br>**EN:** The user's root secret password; never persisted to disk. | **Tối mật / Critical** | **VI:** Chỉ nằm tạm thời trong RAM (`CharArray`/`ByteArray`) lúc xác thực.<br>**EN:** Transient in RAM (`CharArray`/`ByteArray`) during authentication only. |
-| **A-02** | **Master Key (MK)**<br>*(Khóa dẫn xuất)* | **VI:** Khóa 256-bit dẫn xuất từ Master Password qua Argon2id, dùng để bọc/mở khóa Vault Key.<br>**EN:** 256-bit key derived from Master Password via Argon2id, used to wrap/unwrap the Vault Key. | **Tối mật / Critical** | **VI:** Chỉ nằm tạm thời trong RAM khi mở khóa hoặc đổi mật khẩu.<br>**EN:** Transient in RAM during vault unlock or password rotation only. |
-| **A-03** | **Vault Key (VK)**<br>*(Khóa trung tâm)* | **VI:** Khóa đối xứng 256-bit trung tâm dùng để mã hóa các bản ghi trong DB và khóa file.<br>**EN:** Core 256-bit symmetric key used to encrypt database records and file keys. | **Tối mật / Critical** | **VI:** Lưu trên đĩa ở dạng đã bọc (`wrapped_vk`); nằm ở dạng rõ trong RAM khi Vault đang mở (`Unlocked`).<br>**EN:** Stored on disk as wrapped ciphertext (`wrapped_vk`); held in plaintext RAM only while `Unlocked`. |
-| **A-04** | **Biometric Keystore Key**<br>*(Khóa sinh trắc học)* | **VI:** Khóa AES-256-GCM nằm trong Android Keystore dùng để bọc `VK` cho luồng mở khóa vân tay.<br>**EN:** Hardware-backed AES-256-GCM key inside Android Keystore used to wrap `VK` for biometric unlock. | **Cao / High** | **VI:** Phần cứng TEE / Keystore hệ thống (không thể trích xuất byte khóa).<br>**EN:** Hardware TEE / System Keystore (non-exportable key material). |
-| **A-05** | **Credential Data**<br>*(Dữ liệu tài khoản)* | **VI:** Username, Password, TOTP/Ghi chú, URL, `packageName` của các tài khoản.<br>**EN:** Usernames, Passwords, TOTP/Notes, URLs, and associated `packageName` entries. | **Cao / High** | **VI:** Room Database (mã hóa AES-256-GCM); hiển thị trên UI / Autofill khi mở khóa.<br>**EN:** Room Database (AES-256-GCM encrypted); decrypted in UI / Autofill upon unlock. |
-| **A-06** | **Identity Documents & Files (V3)**<br>*(Dữ liệu & File giấy tờ)* | **VI:** Số CCCD, Hộ chiếu, Bằng lái, BHYT và các file ảnh chụp / PDF đính kèm.<br>**EN:** National ID, Passport, Driver's License, Health Insurance numbers, and attached image/PDF files. | **Cao / High** | **VI:** Room DB (trường văn bản) & bộ nhớ trong `filesDir` (file mã hóa); giải mã trên RAM khi xem.<br>**EN:** Room DB (text fields) & internal `filesDir` (encrypted files); decrypted in RAM only when viewed. |
-| **A-07** | **Security Metadata**<br>*(Metadata bảo mật)* | **VI:** Tham số Argon2id, Salt, bộ đếm nhập sai (`failed_attempts`), thời điểm khóa (`lockout_until`).<br>**EN:** Argon2id parameters, Salt, failed login counter (`failed_attempts`), and lockout timestamp (`lockout_until`). | **Trung bình / Medium** | **VI:** Room Database (`vault_metadata`). Cần chống chỉnh sửa hoặc xóa trạng thái lockout.<br>**EN:** Room Database (`vault_metadata`). Must resist tampering or lockout reset. |
+| **A-02** | **Master Key (`MK / KEK`)**<br>*(Khóa dẫn xuất)* | **VI:** Khóa 256-bit dẫn xuất từ Master Password qua Argon2id (`argon2kt:1.6.0`), dùng để bọc/mở khóa Vault Key.<br>**EN:** 256-bit key derived from Master Password via Argon2id (`argon2kt:1.6.0`), used to wrap/unwrap the Vault Key. | **Tối mật / Critical** | **VI:** Chỉ nằm tạm thời trong `In-Memory Safe Zone` (RAM) khi mở khóa/đổi mật khẩu, xóa ngay bằng `KEK.fill(0)`.<br>**EN:** Transient in `In-Memory Safe Zone` (RAM) during unlock/rotation; immediately zeroized via `KEK.fill(0)`. |
+| **A-03** | **Vault Key (`VK / DEK`)**<br>*(Khóa trung tâm)* | **VI:** Khóa đối xứng 256-bit trung tâm dùng để mã hóa các bản ghi trong `VaultRepository` (Room DB) và tài liệu trong `DocumentStore`.<br>**EN:** Core 256-bit symmetric key used to encrypt records in `VaultRepository` (Room DB) and documents in `DocumentStore`. | **Tối mật / Critical** | **VI:** Lưu trong bảng `vault_meta` ở dạng đã bọc (`wrappedDEK`, `wrappedDEK_bio`); nằm trong `VaultSession` (RAM) khi mở khóa và xóa bằng `DEK.fill(0)` khi khóa.<br>**EN:** Stored in `vault_meta` as wrapped blobs (`wrappedDEK`, `wrappedDEK_bio`); held in `VaultSession` (RAM) while unlocked and zeroized via `DEK.fill(0)` on lock. |
+| **A-04** | **Biometric Keystore Key (`vault_wrap_key`)**<br>*(Khóa sinh trắc học)* | **VI:** Khóa AES-256-GCM có alias `vault_wrap_key` trong Android Keystore dùng để bọc `VK / DEK` thành `wrappedDEK_bio`.<br>**EN:** Hardware-backed AES-256-GCM key (`vault_wrap_key`) inside Android Keystore used to wrap `VK / DEK` into `wrappedDEK_bio`. | **Cao / High** | **VI:** `Hardware Security Zone` (TEE / Keystore hệ thống, không thể trích xuất byte khóa).<br>**EN:** `Hardware Security Zone` (Hardware TEE / System Keystore, non-exportable key material). |
+| **A-05** | **Credential Data**<br>*(Dữ liệu tài khoản)* | **VI:** Username, Password, TOTP/Ghi chú, URL, `packageName` của các tài khoản.<br>**EN:** Usernames, Passwords, TOTP/Notes, URLs, and associated `packageName` entries. | **Cao / High** | **VI:** Room Database (mã hóa AES-256-GCM kèm `AAD` gắn `entryId`); hiển thị trên UI / Autofill khi mở khóa.<br>**EN:** Room Database (AES-256-GCM encrypted with `entryId`-bound `AAD`); decrypted in UI / Autofill upon unlock. |
+| **A-06** | **Identity Documents & Files (V3)**<br>*(Dữ liệu & File giấy tờ)* | **VI:** Số CCCD, Hộ chiếu, Bằng lái, BHYT và các file ảnh chụp / PDF đính kèm.<br>**EN:** National ID, Passport, Driver's License, Health Insurance numbers, and attached image/PDF files. | **Cao / High** | **VI:** Room DB (trường văn bản) & `filesDir/docs/<uuid>.bin` (file mã hóa theo luồng); giải mã trên RAM khi xem.<br>**EN:** Room DB (text fields) & `filesDir/docs/<uuid>.bin` (stream-encrypted files); decrypted in RAM only when viewed. |
+| **A-07** | **Security Metadata (`vault_meta`)**<br>*(Metadata bảo mật)* | **VI:** Tham số Argon2id (`m=64MiB, t=3, p=1`), Salt 16B, bộ đếm nhập sai (`failed_attempts`), thời điểm khóa (`lockout_until`).<br>**EN:** Argon2id parameters (`m=64MiB, t=3, p=1`), 16B Salt, failed login counter (`failed_attempts`), and lockout timestamp (`lockout_until`). | **Trung bình / Medium** | **VI:** Bảng `vault_meta` trong Room Database. Cần chống chỉnh sửa hoặc xóa trạng thái lockout.<br>**EN:** `vault_meta` table in Room Database. Must resist tampering or lockout reset. |
 
 ---
 
